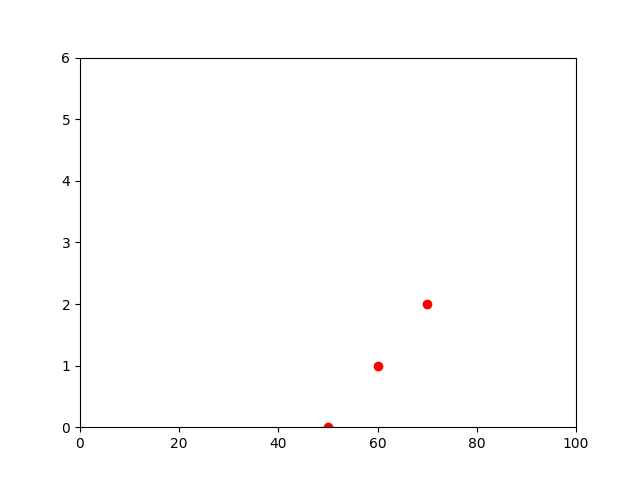
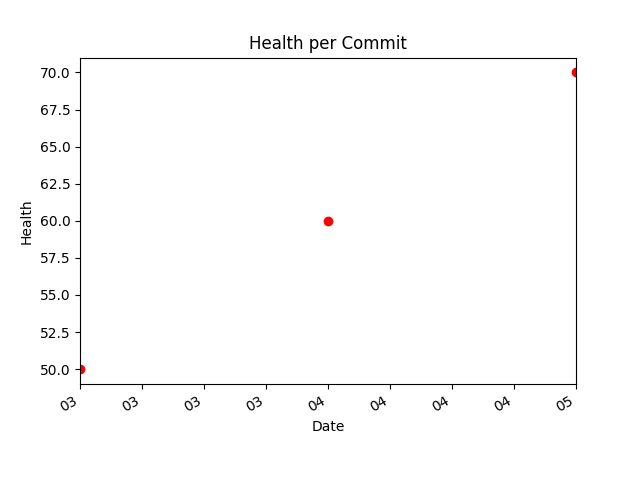
Testing health now

diff --git a/GUI/screen_add_project.py b/GUI/screen_add_project.py
@@ -127,13 +127,20 @@ class MainWindow(Gtk.Window):
         #repo_path = '\\'.join(repo_path.split('\\')[0:-2])
         print('GOING TO RUN:',['../ServerSideScripts/new_chain_client.sh',url,repo_path])
         subprocess.Popen(['../ServerSideScripts/new_chain_client.sh',url,repo_path])
-        #os.spawnl(os.P_DETACH, '../ServerSideScripts/new_chain_client.sh '+url+' '+repo_path)
-
-        #ask for smells
-        #TODO check if smells exist
-        self.list_store = list_store
-        win = screen_smells.MainWindow(url, self)
-        win.show()
+        #ask for smell #TODO check if smells exist
+        subprocess.Popen(['./check_smell.sh', url])
+        time.sleep(2)
+        if os.path.exists('smells_exist.txt'):
+            os.remove('smells_exist.txt')
+            r = requests.get(self.url)
+            data = r.text.split('\n')
+            self.pbrj_name = data[3]
+            x = [self.prj_name, self.get_time_date()]
+            list_store.append(x)
+        else:
+            self.list_store = list_store
+            win = screen_smells.MainWindow(url, self)
+            win.show()
         '''
         print("Adding project: " + str(self.txt_project.get_text()) + " " + self.get_time_date())
         x = [prj_name, self.get_time_date()]

diff --git a/GUI/screen_smells.py b/GUI/screen_smells.py
@@ -4,8 +4,6 @@
 import gi, time
 import requests
 import subprocess
-import yaml
-import toml
 import os
 gi.require_version("Gtk", "3.0")
 from gi.repository import Gtk
@@ -327,15 +325,16 @@ class MainWindow(Gtk.Window):
         print("Adding project: " + self.prj_name + " " + self.get_time_date())
         x = [self.prj_name, self.get_time_date()]
         self.parent.list_store.append(x)
-        #from screen_smells import MainWindow
-        #win = MainWindow()
+        #TODO call github to update .suse
+
+        #Call chain to update existing clients
         print('RUNING:',(['./smell.sh',str(self.api),((os.environ['HOME'])+'/.sawtooth_projects/.' + self.prj_name + '_' + self.prj_id )]))
         subprocess.Popen(['./smell.sh',str(self.api),((os.environ['HOME'])+'/.sawtooth_projects/.' + self.prj_name + '_' + self.prj_id )])
 
         #os.spawnl(os.P_DETACH, 'python3 ../Sawtooth/bin/code_smells.py default --connect http:127.0.0.1:'+str(self.api)+' --path '+('~/.sawtooth_projects/' + self.prj_name + '_' + self.prj_id ))
         # TODO close self
         try:
-            self.quit()
+            self.destroy()
         except:
             pass
         #from screen_2 import MainWindow

diff --git a/GUI/screen_details.py b/GUI/screen_details.py
@@ -1,5 +1,7 @@
 import gi
+from datetime import datetime
 import matplotlib.pyplot as plt
+from matplotlib.dates import DateFormatter
 gi.require_version("Gtk", "3.0")
 from gi.repository import Gtk
 
@@ -15,9 +17,21 @@ class MainWindow(Gtk.Window):
 		self.page1 = Gtk.Box()
 		self.page1.set_border_width(10)
 		healths = [50,60,70]
-		times= [0,1,2]
-		plt.plot(healths,times,'ro')
-		plt.axis([0,100,0,6])
+		myDates = [datetime(2012, 1, i + 3) for i in range(3)]
+
+		fig, ax = plt.subplots()
+		ax.plot(myDates,healths,'ro')
+		myfmt = DateFormatter("%d")
+		ax.xaxis.set_major_formatter(myfmt)
+		ax.set_xlim(myDates[0], myDates[-1])
+		## Rotate date labels automatically
+		fig.autofmt_xdate()
+		plt.xlabel("Date")
+		plt.ylabel("Health")
+		plt.title("Health per Commit")
+		#plt.show()
+		#plt.plot(healths,times,'ro')
+		#plt.axis(['Mon','Tues','Wed'])
 		plt.savefig('health.png')
 		img = Gtk.Image.new_from_file("health.png")
 		self.page1.add(img)
